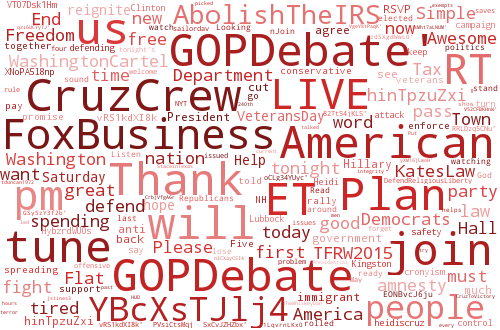
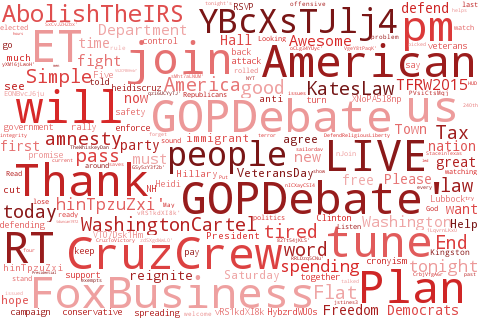
minor css adjustments, make wordclouds smaller

diff --git a/static/min.css b/static/min.css
@@ -29,7 +29,7 @@ img.left_star {
 }
 
 img.right_star {
-	display: inline;
+	display: inline-block;
 	text-align: right;
 	margin-left: 7px;
 
@@ -114,19 +114,20 @@ div.candidate_section {
 
 div.candidate_section:nth-child(odd) {
 	padding: 40px;
-
 }
 
 div.candidate_section:nth-child(odd) .candidate {
+	display: inline-block;
 	float: left;
 }
 
 div.candidate_section:nth-child(even) {
-	padding: 40px 80px;
+	padding: 40px;
 	background: #F1F2F2;
 }
 
 div.candidate_section:nth-child(even) .candidate {
+	display: inline-block;
 	float: right;
 }
 

diff --git a/make_wordclouds.py b/make_wordclouds.py
@@ -80,7 +80,7 @@ for c in candidates:
 		background_color = "white"
 	else:
 		background_color = "#F1F2F2"
-	wordcloud = WordCloud(background_color=background_color, margin=1, max_font_size=45, max_words=175, width=500, height=330, prefer_horizontal=1.0, stopwords=STOPWORDS)
+	wordcloud = WordCloud(background_color=background_color, margin=1, max_font_size=45, max_words=175, width=480, height=320, prefer_horizontal=1.0, stopwords=STOPWORDS)
 	wordcloud.generate(text)
 	if c.party == 'Republican Party':
 		print c.party
